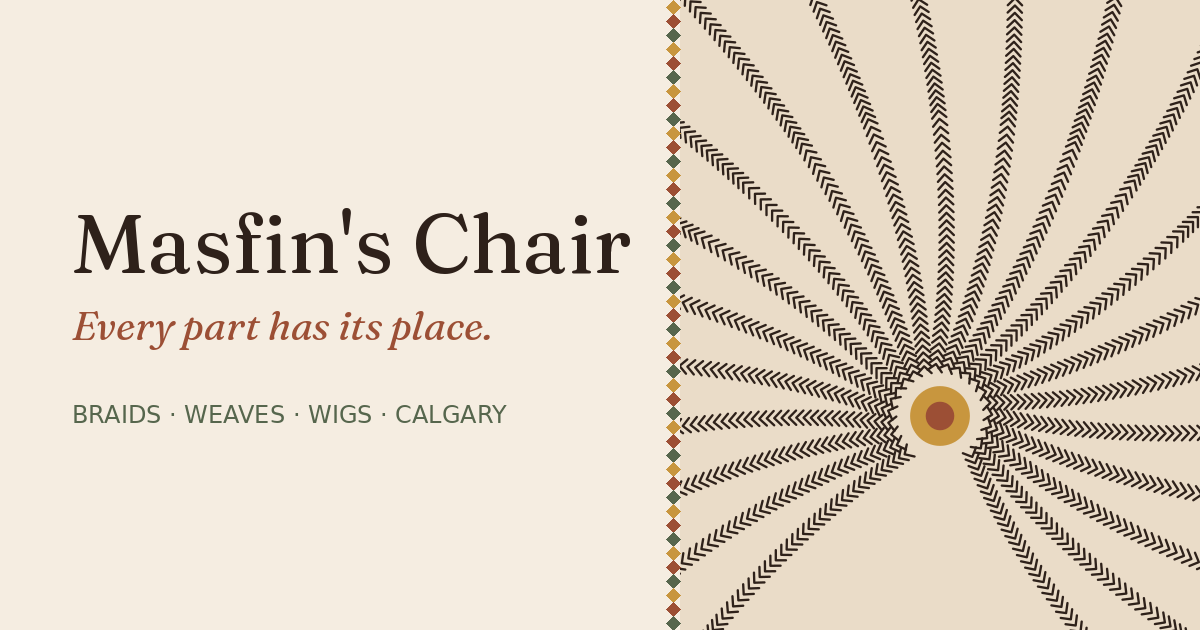
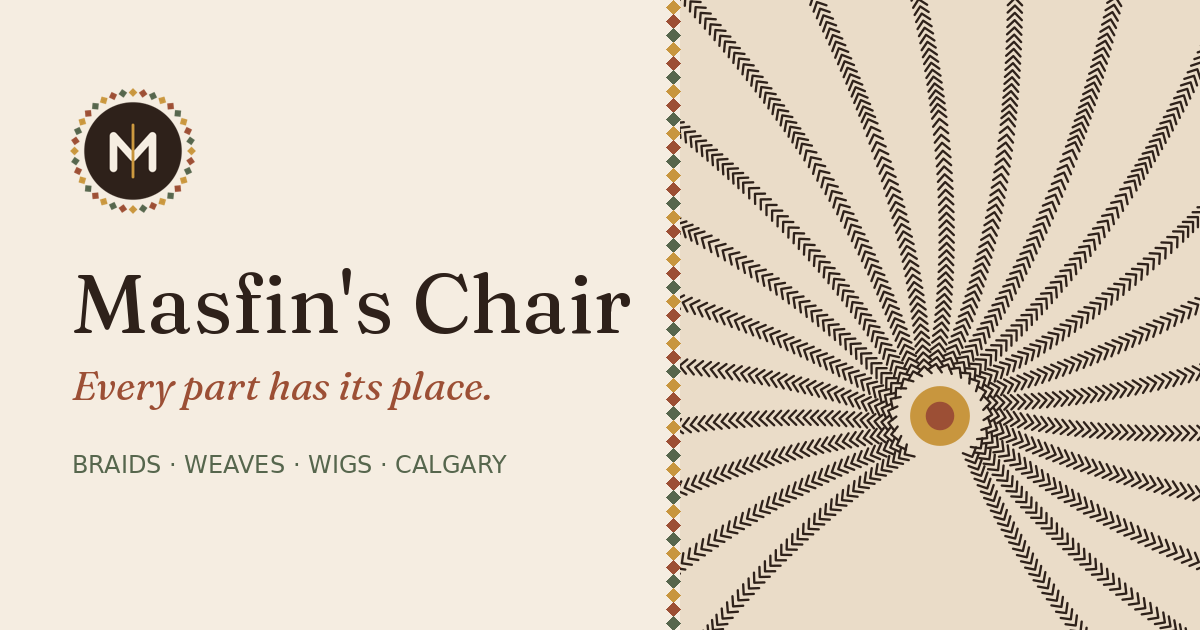
Masfin's Chair: final first-look version

Changed region(s): [[0.0617, 0.1206, 0.5242, 0.573], [0.0617, 0.573, 0.4317, 0.6937], [0.0617, 0.7238, 0.4317, 0.754]]

diff --git a/index.html b/index.html
@@ -15,6 +15,7 @@
 <meta property="og:url" content="https://isaacnicas.github.io/masfins-chair/">
 <meta name="twitter:card" content="summary_large_image">
 <link rel="icon" type="image/svg+xml" href="images/favicon.svg">
+<link rel="apple-touch-icon" href="images/apple-touch-icon.png">
 <link rel="preconnect" href="https://fonts.googleapis.com">
 <link rel="preconnect" href="https://fonts.gstatic.com" crossorigin>
 <link rel="stylesheet" href="https://fonts.googleapis.com/css2?family=Fraunces:ital,opsz,wght,SOFT@0,9..144,300..600,0..100;1,9..144,300..600,0..100&family=Nunito+Sans:opsz,wght@6..12,300..700&display=swap">
@@ -56,7 +57,9 @@ a{color:var(--clay)} a:hover{color:var(--coffee)}
 
 /* Header */
 header.top{display:flex; justify-content:space-between; align-items:center; gap:12px; padding-block:16px}
-.brand{text-decoration:none; color:var(--coffee); font-size:24px}
+.brand{text-decoration:none; color:var(--coffee); font-size:24px; display:inline-flex; align-items:center; gap:10px}
+.brand img{width:40px; height:40px}
+@media (prefers-color-scheme: dark){ .brand img{content:url(images/logo-mark-light.svg)} }
 .navlinks{display:none}
 .btn{display:inline-flex; align-items:center; justify-content:center; gap:10px; min-height:48px; padding:0 22px; border-radius:999px; background:var(--coffee); color:var(--paper); text-decoration:none; font-weight:700; font-size:16px; border:0; cursor:pointer; font-family:var(--body); white-space:nowrap}
 .btn:hover{color:var(--paper); background:var(--clay)}
@@ -105,9 +108,24 @@ blockquote.quote{margin:4px 0 0; padding:0; font-family:var(--display); font-sty
 .svc ul{list-style:none; margin:0; padding:0}
 .svc li{display:flex; justify-content:space-between; gap:14px; padding:12px 0; border-bottom:1px solid var(--line)}
 .price{color:var(--honey-ink); font-variant-numeric:tabular-nums; white-space:nowrap; font-weight:600}
-.extras{display:flex; flex-direction:column; gap:0; padding-top:20px; border-top:2px solid var(--coffee); scroll-margin-top:16px}
-.extras h3{margin:0 0 6px; font-size:16px}
-.extras div{display:flex; justify-content:space-between; gap:14px; padding:10px 0; border-bottom:1px solid var(--line)}
+/* Services menu: swipeable cards on phones, a 2x2 grid on wider screens */
+.swipe-hint{margin:0; color:var(--muted); font-size:14px; font-weight:600}
+.menu-track{display:grid; grid-auto-flow:column; grid-auto-columns:86%; gap:14px; overflow-x:auto; scroll-snap-type:x mandatory; overscroll-behavior-x:contain;
+  margin-inline:calc(var(--gutter) * -1) calc(var(--gutter-r) * -1); padding-inline:var(--gutter) var(--gutter-r); scroll-padding-inline:var(--gutter); scrollbar-width:none; padding-bottom:6px}
+.menu-track::-webkit-scrollbar{display:none}
+.menu-card{display:flex; flex-direction:column; background:var(--cream); border:1px solid var(--line); border-radius:18px; overflow:hidden; scroll-snap-align:start; scroll-margin-top:16px}
+.menu-art{aspect-ratio:16 / 9; border-radius:0}
+.menu-body{display:flex; flex-direction:column; gap:4px; padding:22px 20px 26px}
+.menu-body h3{font-size:32px; margin:0; line-height:1.1}
+.menu-body .tag{font-family:var(--display); font-style:italic; font-variation-settings:"SOFT" 100; color:var(--clay); font-size:18px; margin:0 0 16px}
+.menu-list{list-style:none; margin:0; padding:0; display:flex; flex-direction:column; gap:16px}
+.menu-list li{display:flex; align-items:baseline; gap:10px; font-size:17px}
+.menu-list li > span:first-child{white-space:nowrap}
+.menu-list i{flex:1; min-width:8px; border-bottom:2px dotted var(--line); transform:translateY(-5px)}
+.extras-card{display:flex; flex-direction:column; gap:14px; padding:22px; border-radius:18px; background:var(--sand); scroll-margin-top:16px}
+.extras-card h3{margin:0; font-size:26px}
+.extras-list{display:flex; flex-wrap:wrap; gap:10px}
+.extra{display:inline-flex; align-items:baseline; gap:8px; padding:11px 16px; border-radius:999px; background:var(--paper); font-size:15.5px; white-space:nowrap}
 
 /* Booking */
 .steps{display:grid; gap:28px; margin:0; padding:0; list-style:none}
@@ -184,10 +202,12 @@ footer .wrap{display:flex; flex-direction:column; gap:22px}
   .hero .ph{aspect-ratio:4 / 5; border-radius:240px 240px 8px 8px}
   .band{padding-block:112px}
   .about{grid-template-columns:minmax(0,1fr) minmax(0,1.2fr); gap:72px; align-items:start}
-  .svc-grid{grid-template-columns:repeat(2, minmax(0,1fr)); gap:56px 64px}
-  .extras{flex-direction:row; flex-wrap:wrap; gap:10px 28px; align-items:baseline}
-  .extras h3{margin:0}
-  .extras div{border:0; padding:0; gap:8px}
+  .swipe-hint{display:none}
+  .menu-track{grid-auto-flow:row; grid-auto-columns:auto; grid-template-columns:repeat(2, minmax(0,1fr)); gap:32px; overflow:visible; margin-inline:0; padding-inline:0}
+  .menu-art{aspect-ratio:16 / 8}
+  .menu-body{padding:28px 30px 34px}
+  .menu-body h3{font-size:34px}
+  .extras-card{padding:28px 30px}
   .jumps, .chips{margin-inline:0; padding-inline:0; flex-wrap:wrap; overflow:visible}
   .steps{grid-template-columns:repeat(3, minmax(0,1fr)); gap:40px}
   .steps li{grid-template-columns:1fr}
@@ -205,7 +225,7 @@ footer .wrap{display:flex; flex-direction:column; gap:22px}
 <div class="preview">First look, still in progress. Anything in [brackets] is waiting for Masfin's details, and the pictures are stand-ins for real photos.</div>
 
 <header class="wrap top">
-  <a class="brand soft" href="#top">Masfin's Chair</a>
+  <a class="brand soft" href="#top"><img src="images/logo-mark.svg" alt="" width="40" height="40">Masfin's Chair</a>
   <nav class="navlinks" aria-label="Main">
     <a href="#services">Services</a>
     <a href="#pieces">Pieces</a>
@@ -255,59 +275,67 @@ footer .wrap{display:flex; flex-direction:column; gap:22px}
         <h2 class="soft h2">A twist in the right direction.</h2>
         <p style="margin:0; max-width:44ch; color:var(--muted); font-size:15.5px">Starting prices. Length, size and added hair shape the final price, and you'll know it before the first part.</p>
       </div>
-      <nav class="jumps" aria-label="Service menu">
-        <a class="jump" href="#svc-braids">Braids</a>
-        <a class="jump" href="#svc-weaves">Weaves</a>
-        <a class="jump" href="#svc-wigs">Wigs</a>
-        <a class="jump" href="#svc-little">Little chairs</a>
-        <a class="jump" href="#svc-extras">Extras</a>
-      </nav>
-      <div class="svc-grid">
-        <div id="svc-braids" class="svc">
-          <h3 class="soft">Braids</h3>
-          <p class="tag">Good things come to those who braid.</p>
-          <ul>
-            <li><span>Box &amp; knotless braids</span><span class="price">from $[ ]</span></li>
-            <li><span>Cornrows &amp; feed-in</span><span class="price">from $[ ]</span></li>
-            <li><span>Fulani braids</span><span class="price">from $[ ]</span></li>
-            <li><span>Goddess &amp; boho braids</span><span class="price">from $[ ]</span></li>
-            <li><span>Twists</span><span class="price">from $[ ]</span></li>
-            <li><span>Crochet</span><span class="price">from $[ ]</span></li>
-          </ul>
-        </div>
-        <div id="svc-weaves" class="svc">
-          <h3 class="soft">Weaves</h3>
-          <p class="tag">Weave been expecting you.</p>
-          <ul>
-            <li><span>Sew-in weave</span><span class="price">from $[ ]</span></li>
-            <li><span>Quick weave</span><span class="price">from $[ ]</span></li>
-            <li><span>Closure or frontal install</span><span class="price">from $[ ]</span></li>
-          </ul>
-        </div>
-        <div id="svc-wigs" class="svc">
-          <h3 class="soft">Wigs</h3>
-          <p class="tag">Go wig or go home.</p>
-          <ul>
-            <li><span>Wig install</span><span class="price">from $[ ]</span></li>
-            <li><span>Wig styling &amp; refresh</span><span class="price">from $[ ]</span></li>
-          </ul>
-        </div>
-        <div id="svc-little" class="svc">
-          <h3 class="soft">Little chairs</h3>
-          <p class="tag">Picture-day ready.</p>
-          <ul>
-            <li><span>Children's braids &amp; cornrows</span><span class="price">from $[ ]</span></li>
-            <li><span>Children's twists with beads</span><span class="price">from $[ ]</span></li>
-          </ul>
-        </div>
+      <p class="swipe-hint">Swipe through the menu →</p>
+      <div class="menu-track" role="list">
+        <article id="svc-braids" class="menu-card" role="listitem">
+          <div class="ph menu-art"><img src="images/knotless.svg" alt="" loading="lazy"><span class="ph-label">Photo to come</span></div>
+          <div class="menu-body">
+            <h3 class="soft">Braids</h3>
+            <p class="tag">Good things come to those who braid.</p>
+            <ul class="menu-list">
+              <li><span>Box &amp; knotless</span><i aria-hidden="true"></i><span class="price">from $[ ]</span></li>
+              <li><span>Cornrows &amp; feed-in</span><i aria-hidden="true"></i><span class="price">from $[ ]</span></li>
+              <li><span>Fulani</span><i aria-hidden="true"></i><span class="price">from $[ ]</span></li>
+              <li><span>Goddess &amp; boho</span><i aria-hidden="true"></i><span class="price">from $[ ]</span></li>
+              <li><span>Twists</span><i aria-hidden="true"></i><span class="price">from $[ ]</span></li>
+              <li><span>Crochet</span><i aria-hidden="true"></i><span class="price">from $[ ]</span></li>
+            </ul>
+          </div>
+        </article>
+        <article id="svc-weaves" class="menu-card" role="listitem">
+          <div class="ph menu-art"><img src="images/sewin.svg" alt="" loading="lazy"><span class="ph-label">Photo to come</span></div>
+          <div class="menu-body">
+            <h3 class="soft">Weaves</h3>
+            <p class="tag">Weave been expecting you.</p>
+            <ul class="menu-list">
+              <li><span>Sew-in</span><i aria-hidden="true"></i><span class="price">from $[ ]</span></li>
+              <li><span>Quick weave</span><i aria-hidden="true"></i><span class="price">from $[ ]</span></li>
+              <li><span>Closure or frontal</span><i aria-hidden="true"></i><span class="price">from $[ ]</span></li>
+            </ul>
+          </div>
+        </article>
+        <article id="svc-wigs" class="menu-card" role="listitem">
+          <div class="ph menu-art"><img src="images/wig.svg" alt="" loading="lazy"><span class="ph-label">Photo to come</span></div>
+          <div class="menu-body">
+            <h3 class="soft">Wigs</h3>
+            <p class="tag">Go wig or go home.</p>
+            <ul class="menu-list">
+              <li><span>Wig install</span><i aria-hidden="true"></i><span class="price">from $[ ]</span></li>
+              <li><span>Styling &amp; refresh</span><i aria-hidden="true"></i><span class="price">from $[ ]</span></li>
+            </ul>
+          </div>
+        </article>
+        <article id="svc-little" class="menu-card" role="listitem">
+          <div class="ph menu-art"><img src="images/little.svg" alt="" loading="lazy"><span class="ph-label">Photo to come</span></div>
+          <div class="menu-body">
+            <h3 class="soft">Little chairs</h3>
+            <p class="tag">Picture-day ready.</p>
+            <ul class="menu-list">
+              <li><span>Braids &amp; cornrows</span><i aria-hidden="true"></i><span class="price">from $[ ]</span></li>
+              <li><span>Twists with beads</span><i aria-hidden="true"></i><span class="price">from $[ ]</span></li>
+            </ul>
+          </div>
+        </article>
       </div>
-      <div id="svc-extras" class="extras">
-        <h3>Extras</h3>
-        <div><span>Take-down</span><span class="price">from $[ ]</span></div>
-        <div><span>Wash &amp; blow-dry</span><span class="price">from $[ ]</span></div>
-        <div><span>Detangle</span><span class="price">from $[ ]</span></div>
-        <div><span>Beads</span><span class="price">from $[ ]</span></div>
-        <div><span>Hair supplied</span><span class="price">[ask]</span></div>
+      <div id="svc-extras" class="extras-card">
+        <h3 class="soft">Little extras</h3>
+        <div class="extras-list">
+          <span class="extra">Take-down <span class="price">from $[ ]</span></span>
+          <span class="extra">Wash &amp; blow-dry <span class="price">from $[ ]</span></span>
+          <span class="extra">Detangle <span class="price">from $[ ]</span></span>
+          <span class="extra">Beads <span class="price">from $[ ]</span></span>
+          <span class="extra">Hair supplied <span class="price">ask us</span></span>
+        </div>
       </div>
     </div>
   </section>
@@ -431,7 +459,7 @@ footer .wrap{display:flex; flex-direction:column; gap:22px}
 <footer>
   <div class="wrap">
     <div class="stack" style="gap:6px; min-width:0">
-      <span class="soft" style="font-size:22px; color:var(--night-fg)">Masfin's Chair</span>
+      <span class="soft" style="font-size:22px; color:var(--night-fg); display:inline-flex; align-items:center; gap:12px"><img src="images/logo-mark-light.svg" alt="" width="44" height="44">Masfin's Chair</span>
       <span style="font-family:var(--display); font-style:italic; font-size:16px">No need to get your hair in a twist. That's our job.</span>
       <span>Studio · [area], Calgary, AB · WhatsApp <span class="wa-num"></span></span>
     </div>
@@ -454,7 +482,7 @@ footer .wrap{display:flex; flex-direction:column; gap:22px}
 
 <script>
 // ---- Edit these two lines when Masfin confirms his details ----
-var WHATSAPP_NUMBER = '587718224X';   // 10 digits, no spaces. X = digit still missing.
+var WHATSAPP_NUMBER = '5877182244';   // 10 digits, no spaces.
 var BOOKING_MESSAGE = "Hello! I'd like to book a style.";
 // ----------------------------------------------------------------
 
